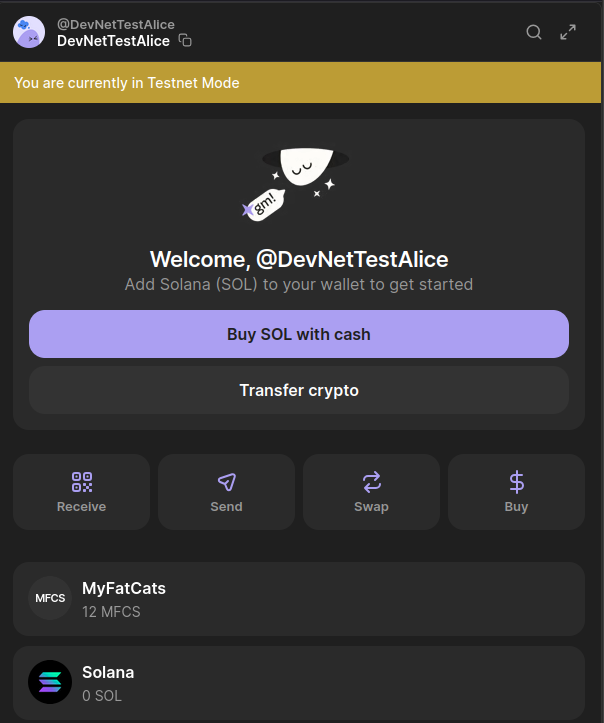
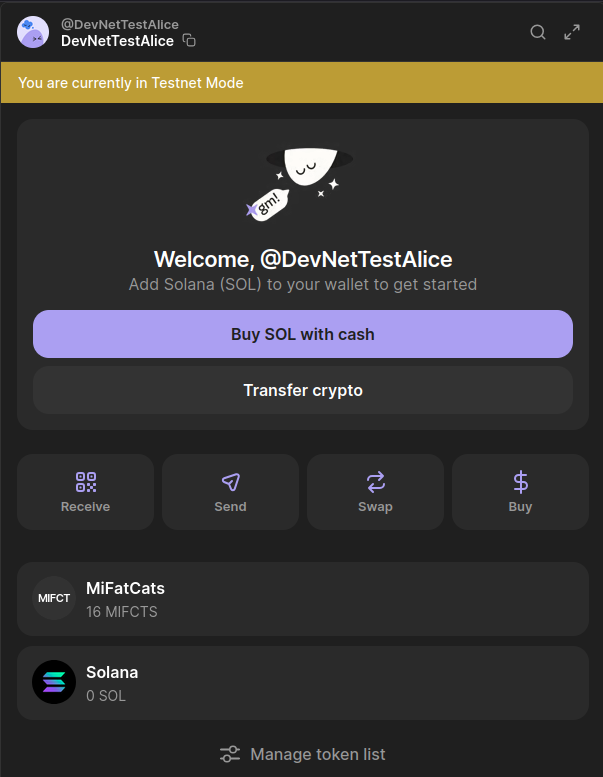
1. Change README.md

diff --git a/README.md b/README.md
@@ -66,13 +66,13 @@ Done in 3.26s.
 
 ## 3.6 Ссылки
 - token
-  https://explorer.solana.com/address/BFiX8WGY9HfwzEfWc56KjGrnwj3KReDXxu2K7ix8cjBB?cluster=devnet
+  https://explorer.solana.com/address/3hTZazYK7RcWvEY5gEKTega8purPv6gwH3ggihBrsZFf?cluster=devnet
 
 - transaction mint token
-  https://explorer.solana.com/tx/YdDfHZGJHt8HaDPmGqykeFB7H817ugpYi18kvhzspo5TTgc959U98YtWRX9qXU98trZBa3646PmH7EjaWhBpNBQ?cluster=devnet
+  https://explorer.solana.com/tx/5HLupHE8NC8pe7jDru6B7w7XLDsixZzKhpP3qnxZMuzULgHgmNYAYbXfbfLp21pzFcJXHoR5W2FL4m9wMezGJN8D?cluster=devnet
 
 - transaction transfer token
-  https://explorer.solana.com/tx/5RJZmrkruyN783juPXJ4kKx98KpFuYYEChrAC9TKquV2dC4VsxUAqSbu54MobuxJTXxztyX3TQmaCRq8DeKyAoEr?cluster=devnet
+  https://explorer.solana.com/tx/3hz9SehyHyhRSqyL1ebx5dPcTWdggPJiuJ7nPFJPeWY8sdKCjyCnWJi7NKsEkL3h2i9r6XAP4sr811DXfMzGc6nY?cluster=devnet
 
 # from:
 ![wallet_token.png](img/wallet_token.png) 
